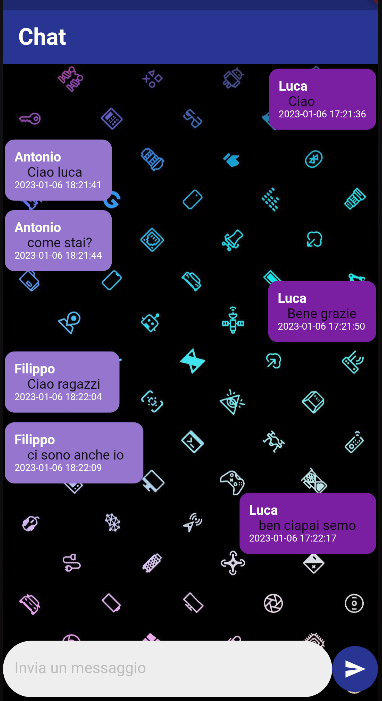
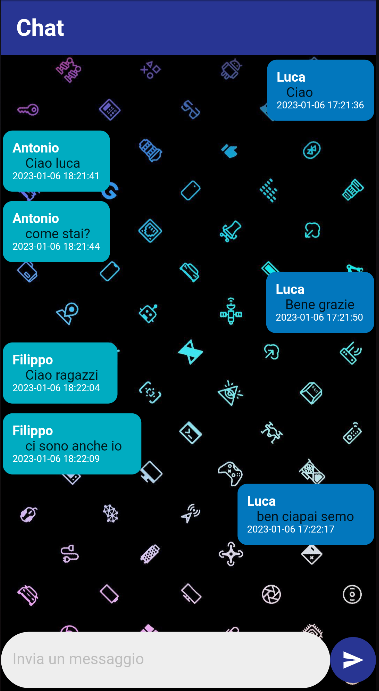
colori

diff --git a/chatroom/client_mobile/lib/widget/chat_message.dart b/chatroom/client_mobile/lib/widget/chat_message.dart
@@ -27,8 +27,8 @@ class ChatMessage extends StatelessWidget {
               padding: const EdgeInsets.all(10),
               decoration: BoxDecoration(
                 color: sender == AppData.username
-                    ? Colors.purple[700]
-                    : Colors.deepPurple[300],
+                    ? Colors.lightBlue[800]
+                    : Colors.cyan[600],
                 borderRadius: BorderRadius.circular(10),
               ),
               child: Column(
@@ -43,8 +43,8 @@ class ChatMessage extends StatelessWidget {
                     padding: const EdgeInsets.symmetric(horizontal: 10),
                     decoration: BoxDecoration(
                       color: sender == AppData.username
-                          ? Colors.purple[700]
-                          : Colors.deepPurple[300],
+                          ? Colors.lightBlue[800]
+                          : Colors.cyan[600],
                       borderRadius: BorderRadius.circular(10),
                     ),
                     child: Text(text),
